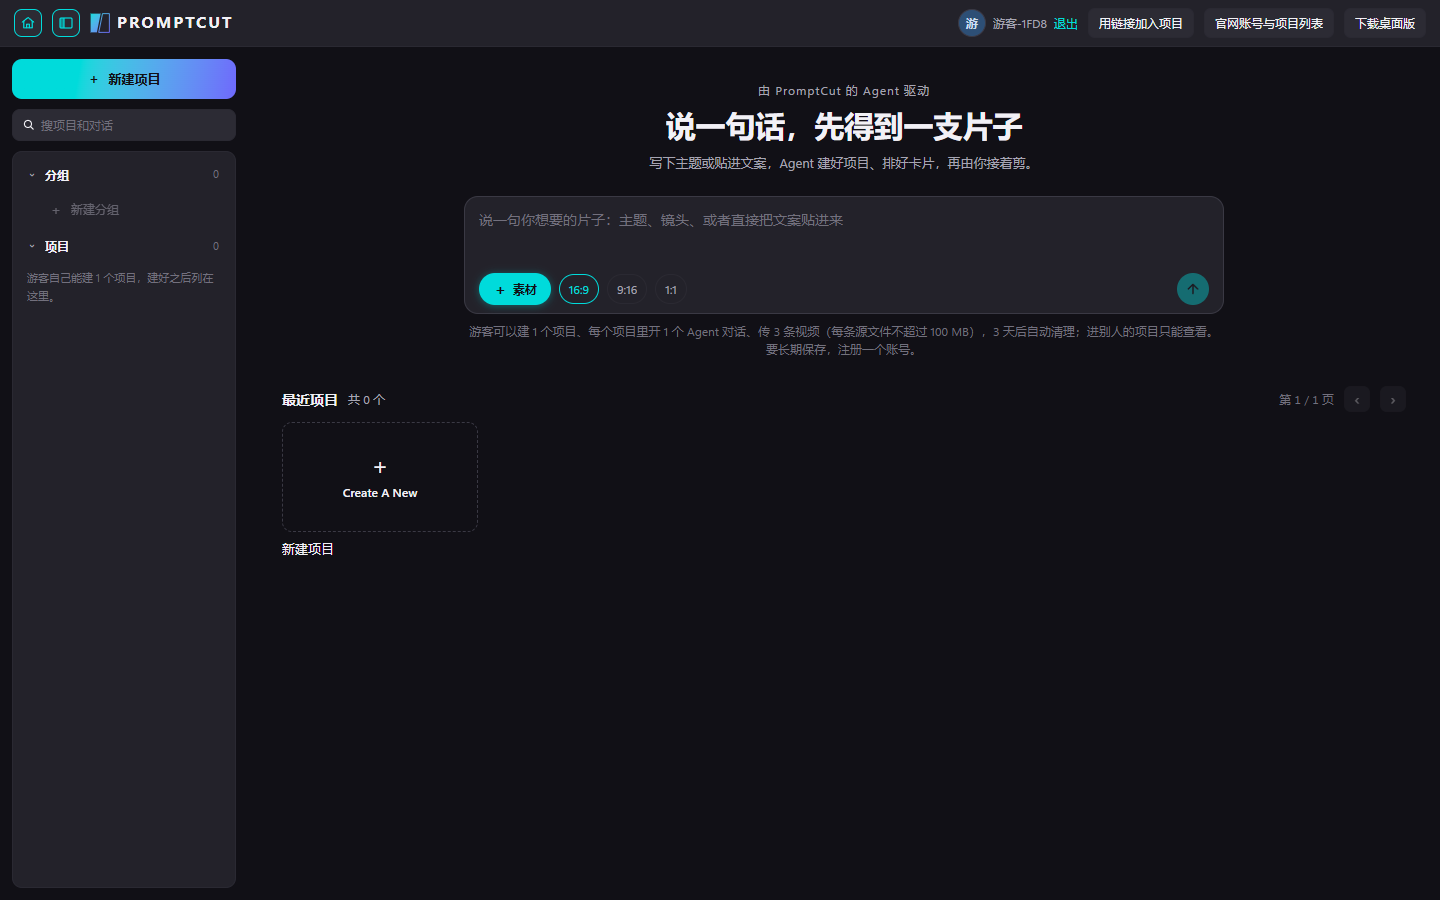
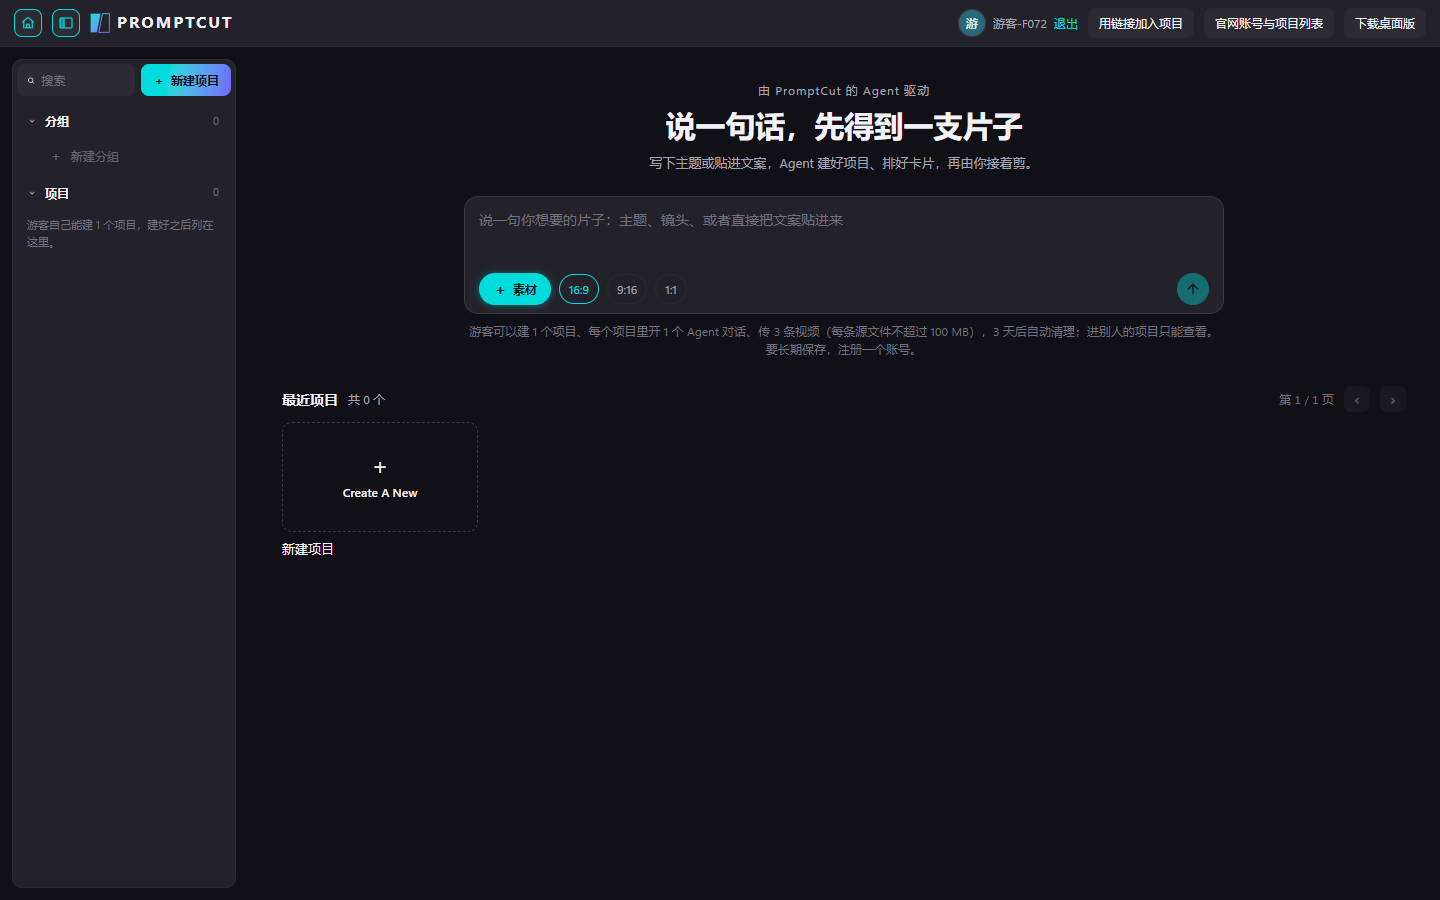
侧栏：搜索与新建并作一行放进面板，点搜索展开盖住新建
用户 2026-10-24 要求：两样都放到面板内部、并排一行；点搜索时搜索框展开，
遮住右边的「新建项目」。

- 面板多一层 `.ps-side-panel`：头一行（`.ps-side-head`）钉在顶上不跟着滚，
  底下才是能滚的列表。
- 头一行里两样都绝对定位：新建键靠右不动，搜索框从它左边起，展开时把 `right`
  走到 0 盖住它（240ms，和侧栏收起同一条缓动）。只动一个 `right`，两样都不
  位移、不重排；拿 flex 挤的话新建键会被压扁、字会折行。
- 收着的 `right` 由 ResizeObserver 量出新建键的宽度给行内样式，键上的字、字号、
  皮肤换了都不用回来改数；CSS 里 112px 只是量到之前的兜底。
- 展开时占位字从「搜索」换成「搜项目和对话」；被盖住的新建键 `aria-hidden` +
  `tabIndex=-1`，不会被 Tab 到。
- 打了字就不收（收回去看不见自己搜的是什么）；自己画了一颗清空 ✕（按下时拦掉
  `mousedown`，免得 <label> 把焦点送进输入框），Esc 也能清空退出。
- 关了动效（prefers-reduced-motion）的直接到位，不滑。

验证：构建成功、影响范围内 60 条测试零失败、`vibe-start-probe.mjs` 再跑一遍
仍然 fails 为空；侧栏拖到最窄 190px 两样仍并排放得下。

Changed region(s): [[0.0, 0.0622, 0.1875, 0.3111], [0.6562, 0.0, 0.6875, 0.0311], [0.0, 0.3111, 0.0312, 0.3422]]

diff --git a/src/start/ProjectSidebar.tsx b/src/start/ProjectSidebar.tsx
@@ -24,7 +24,7 @@
  * 每个分组、每个项目都带 `realm`,右键「移到分组」里另一套的分组置灰并说明。「分组 Agent」语义里没有,这一版不做。
  * 归档的东西收在最下面「已归档」那一段里,右键能取消归档。
  */
-import { useRef, useState } from "react";
+import { useEffect, useRef, useState } from "react";
 import type { JSX } from "react";
 import type { ReactNode } from "react";
 import { RowMenu, type MenuAt, type MenuBlock } from "./RowMenu";
@@ -182,6 +182,24 @@ export function ProjectSidebar(props: {
   const cardOpen = (k: string) => cards[k] !== false;
   const toggleCard = (k: string) => setCards((c) => ({ ...c, [k]: !cardOpen(k) }));
   const [query, setQuery] = useState("");
+  /** 搜索框是不是正被用着(点进去了);打了字的话松开焦点也不收 —— 收回去就看不见自己搜的是什么了 */
+  const [typing, setTyping] = useState(false);
+  /**
+   * 「新建项目」那颗键有多宽。搜索框平时就停在它左边(`right` 给到这个数),展开时 `right` 走到 0 盖住它。
+   * 量出来而不是写死:键上的字、字号、皮肤换了都不用回来改这个数。
+   */
+  const [newW, setNewW] = useState(0);
+  const newBtn = useRef<HTMLButtonElement>(null);
+  const searchBox = useRef<HTMLInputElement>(null);
+  useEffect(() => {
+    const el = newBtn.current;
+    if (!el) return;
+    const measure = () => setNewW(el.offsetWidth);
+    measure();
+    const ro = new ResizeObserver(measure);
+    ro.observe(el);
+    return () => ro.disconnect();
+  }, []);
   const [menu, setMenu] = useState<MenuAt | null>(null);
   const [renaming, setRenaming] = useState<{ kind: TreeKind; id: string; name: string } | null>(null);
   /** 正在拖的那一行;dragover 时读它判同级(dataTransfer 在 dragover 里读不到内容) */
@@ -190,6 +208,8 @@ export function ProjectSidebar(props: {
 
   const q = query.trim().toLowerCase();
   const hit = (text: string) => !q || text.toLowerCase().includes(q);
+  /** 搜索框展开着没有:点进去了,或者里面还有字 */
+  const searchOpen = typing || query !== "";
 
   // 归档的不进树;显示顺序由 ordered 定(置顶的在自己这一段的最前面)
   const groups = ordered(visible(props.groups));
@@ -413,24 +433,52 @@ export function ProjectSidebar(props: {
     >
       {/* 里面这一层钉住原来的宽度:收的时候内容整块滑出去,不会先被挤成一条再消失 */}
       <div className="ps-side-inner" style={{ width: `${props.width}px` }}>
-      <button type="button" className="ps-side-new" data-pc="start-side-new" disabled={!!props.createBlocked} title={props.createBlocked ?? undefined} onClick={props.onCreate}>
-        <span aria-hidden="true">＋</span>新建项目
-      </button>
+      {/* 面板只有一张(issue #5):搜索与新建那一行、下面的列表,都在这张里面 */}
+      <div className="ps-side-panel" data-pc="start-side-panel">
+      {/*
+        头一行:左边搜索、右边「新建项目」。点进搜索框,它向右长出去**盖住**新建那颗键(用户 2026-10-24),
+        动画只动一个 `right`(240ms,和侧栏收起同一条缓动),没有位移抖动;收回去时新建键原样露出来 ——
+        它一直在原地,只是被盖着。
+      */}
+      <div className="ps-side-head" data-searching={searchOpen}>
+        <button ref={newBtn} type="button" className="ps-side-new" data-pc="start-side-new" disabled={!!props.createBlocked}
+          title={props.createBlocked ?? undefined} aria-hidden={searchOpen || undefined} tabIndex={searchOpen ? -1 : undefined}
+          onClick={props.onCreate}>
+          <span aria-hidden="true">＋</span>新建项目
+        </button>
 
-      <label className="ps-search">
-        <svg width="13" height="13" viewBox="0 0 24 24" fill="none" stroke="currentColor" strokeWidth="2" strokeLinecap="round" aria-hidden="true">
-          <circle cx="11" cy="11" r="6.5" />
-          <path d="m16 16 4.5 4.5" />
-        </svg>
-        <input
-          type="search"
-          value={query}
-          placeholder="搜项目和对话"
-          aria-label="搜项目和对话"
-          data-pc="start-side-search"
-          onChange={(e) => setQuery(e.target.value)}
-        />
-      </label>
+        <label className="ps-search" style={newW ? { right: searchOpen ? 0 : newW + 6 } : undefined}>
+          <svg width="13" height="13" viewBox="0 0 24 24" fill="none" stroke="currentColor" strokeWidth="2" strokeLinecap="round" aria-hidden="true">
+            <circle cx="11" cy="11" r="6.5" />
+            <path d="m16 16 4.5 4.5" />
+          </svg>
+          <input
+            ref={searchBox}
+            type="search"
+            value={query}
+            /* 收着的时候只有一小条,长的那句放不下;展开了再写全 */
+            placeholder={searchOpen ? "搜项目和对话" : "搜索"}
+            aria-label="搜项目和对话"
+            data-pc="start-side-search"
+            onFocus={() => setTyping(true)}
+            onBlur={() => setTyping(false)}
+            /* Esc:清空并退出,搜索框收回去,新建键露出来 */
+            onKeyDown={(e) => { if (e.key === "Escape") { setQuery(""); searchBox.current?.blur(); } }}
+            onChange={(e) => setQuery(e.target.value)}
+          />
+          {/*
+            清空那一颗:搜完了点它,搜索框收回去、新建键露出来。只有有字的时候在。
+            `onMouseDown` 要拦掉 —— 它在 <label> 里,不拦的话按下去会把焦点送进输入框,清完又算「正在用」,收不回去。
+          */}
+          {query && (
+            <button type="button" className="ps-search-clear" data-pc="start-side-search-clear" aria-label="清空搜索"
+              onMouseDown={(e) => e.preventDefault()}
+              onClick={() => { setQuery(""); setTyping(false); }}>
+              ✕
+            </button>
+          )}
+        </label>
+      </div>
 
       <div className="ps-side-scroll">
         {SHOW_SCOPE_ROWS && (
@@ -538,6 +586,7 @@ export function ProjectSidebar(props: {
             </div>}
           </div>
         )}
+      </div>
       </div>
 
       </div>

diff --git a/src/start/start.css b/src/start/start.css
@@ -149,19 +149,34 @@
 .ps-grip:hover::after,
 .ps-grip:focus-visible::after { background: var(--accent); }
 .ps-grip:focus-visible { outline: none; }
-.ps-side-new {
+/*
+ * 面板顶上那一行(用户 2026-10-24:搜索和新建都放进面板,并排一行)。两样都**绝对定位**在这一行里:
+ * 新建键靠右不动,搜索框从它左边起,展开时 `right` 走到 0 **盖住**它。
+ * 只动一个 `right`,两样都不位移、不重排 —— 拿 flex 挤的话新建键会被压扁、字会折行。
+ * 那个 `right` 的收着值由 `ProjectSidebar.tsx` 量出新建键的宽度后给行内样式,这里的 112px 只是量到之前的兜底。
+ */
+.ps-side-head {
+  position: relative;
   flex: 0 0 auto;
-  margin: 2px 12px 10px;
+  height: 32px;
+  margin-bottom: 6px;
+}
+.ps-side-new {
+  position: absolute;
+  right: 0;
+  top: 0;
+  height: 100%;
   display: flex;
   align-items: center;
   justify-content: center;
-  gap: 8px;
-  padding: 10px 12px;
+  gap: 6px;
+  padding: 0 12px;
   border: 0;
-  border-radius: 10px;
+  border-radius: 8px;
   font-family: inherit;
-  font-size: 13px;
+  font-size: 12px;
   font-weight: 600;
+  white-space: nowrap;
   cursor: pointer;
   color: var(--on-accent);
   background: var(--ui-accent-grad, linear-gradient(100deg, var(--accent), color-mix(in srgb, var(--accent) 10%, #7b5cff)));
@@ -170,16 +185,46 @@
 .ps-side-new:focus-visible { outline: 2px solid var(--ink); outline-offset: 2px; }
 
 .ps-search {
-  flex: 0 0 auto;
-  margin: 0 12px 8px;
+  position: absolute;
+  left: 0;
+  top: 0;
+  right: 112px;
+  height: 100%;
+  z-index: 2;
   display: flex;
   align-items: center;
   gap: 6px;
-  padding: 6px 9px;
+  padding: 0 9px;
   border: 1px solid var(--hairline);
   border-radius: 8px;
+  /* 底色必须是不透明的:展开时它要把新建键整个盖住,透出来就成了两层字叠在一起 */
   background: var(--fill-subtle);
+  transition: right 240ms cubic-bezier(0.2, 0.8, 0.2, 1);
 }
+/* 关了动效的人:直接到位,不滑 */
+@media (prefers-reduced-motion: reduce) {
+  .ps-search { transition: none; }
+}
+/* 自带的那颗清空键不要:自己画了一颗(`.ps-search-clear`),两颗叠在一起很怪 */
+.ps-search input[type="search"]::-webkit-search-cancel-button { display: none; }
+.ps-search-clear {
+  flex: 0 0 auto;
+  display: grid;
+  place-items: center;
+  width: 17px;
+  height: 17px;
+  padding: 0;
+  border: 0;
+  border-radius: 50%;
+  background: transparent;
+  color: var(--ink-faint);
+  font-family: inherit;
+  font-size: 10px;
+  line-height: 1;
+  cursor: pointer;
+}
+.ps-search-clear:hover { background: var(--fill-hover); color: var(--ink); }
+.ps-search-clear:focus-visible { outline: 2px solid var(--accent); outline-offset: 1px; }
 .ps-search:focus-within { border-color: var(--accent); box-shadow: var(--ui-glow); }
 .ps-search input[type="search"]:focus { box-shadow: none; }
 .ps-search input {
@@ -196,20 +241,27 @@
 
 /*
  * 整栏就是**一张面板**(issue #5,用户原话:「左侧列表栏换成统一的一个面板，不再区分为多个」):
- * 边框、底色、圆角画在能滚的这一层上,分组 / 项目 / 已归档各段在它里面接着往下排。
+ * 边框、底色、圆角画在这一层上;搜索与新建那一行(`.ps-side-head`)钉在它顶上、不跟着滚,
+ * 底下是能滚的列表,分组 / 项目 / 已归档各段接着往下排。
  * 原先是每段各自一张卡(2026-10-23「左侧仿照右侧用模块式」),段与段之间有缝、有各自的边框 —— 那一版已被这条替代。
  * 右边那条拓展栏(`.ps-ext-sec`)不动,它本来就是分开的几段。
  */
-.ps-side-scroll {
+.ps-side-panel {
   flex: 1 1 auto;
   min-height: 0;
-  overflow-y: auto;
-  /* 左右跟「新建项目」「搜项目和对话」对齐(都是 12px),面板不比它们宽也不比它们窄 */
+  /* 左右各留 12px:和原来那颗新建键、搜索框站的位置一样 */
   margin: 2px 12px 12px;
   padding: 4px;
   border: 1px solid var(--hairline);
   border-radius: 10px;
   background: var(--bg-panel);
+  display: flex;
+  flex-direction: column;
+}
+.ps-side-scroll {
+  flex: 1 1 auto;
+  min-height: 0;
+  overflow-y: auto;
   display: flex;
   flex-direction: column;
 }

diff --git a/docs/reports/PROBE-vibe-ui-issues.md b/docs/reports/PROBE-vibe-ui-issues.md
@@ -19,7 +19,7 @@
 
 | 探针 | 命令 | 结果 |
 |---|---|---|
-| 在线氛围式真跑一遍 | `PROMPTCUT_ACCOUNT_PROVIDER_ROOT=… PROMPTCUT_PASSWORD_ORDER_MODULE=… PROMPTCUT_NO_PORT_FILE=1 node scripts/probes/vibe-start-probe.mjs --dist dist-online --site-root <VisuHive>/site --out <目录>` | **通过**：最后一行 `{"ok":true, … ,"fails":[]}`，13 步全过，`pageErrors` / `serverErrors` 三个角色都是空 |
+| 在线氛围式真跑一遍 | `PROMPTCUT_ACCOUNT_PROVIDER_ROOT=… PROMPTCUT_PASSWORD_ORDER_MODULE=… PROMPTCUT_NO_PORT_FILE=1 node scripts/probes/vibe-start-probe.mjs --dist dist-online --site-root <VisuHive>/site --out <目录>` | **通过**：最后一行 `{"ok":true, … ,"fails":[]}`，13 步全过，`pageErrors` / `serverErrors` 三个角色都是空。跑了两遍：四个 issue 改完之后一遍，搜索与新建并作一行之后又一遍，两遍都过 |
 | 桌面氛围式 | `node scripts/probes/vibe-desktop-probe.mjs --cdp <端口>` | **没跑**：它要先起 Tauri 桌面壳、再连 WebView2 的调试端口，本次改动在壳外的页面里，已改用下面「三、手工验证」在 5203 上逐条看过 |
 
 `vibe-start-probe.mjs` 里原来有一句无条件点「右侧拓展栏」开关；#6 之后拓展栏进会话就自己开了，再点一下反而关上，
@@ -29,6 +29,7 @@
 
 - `PROBE-vibe-ui-issues-shots/10-guest-home.png` —— 游客开始页。就是 issue #10 那一屏：「空白画布」和「这里还没有项目。点第一格的「Create A New」建一个。」都不在了；左侧是**一张**面板（#5）。
 - `PROBE-vibe-ui-issues-shots/11-guest-chat.png` —— 游客进会话之后。探针**没有点**拓展栏开关，右侧「画面 / 修改前 / 修改后」自己就展开了（#6）。
+- `PROBE-vibe-ui-issues-shots/search-open.jpg` —— 搜索框点开之后盖住「新建项目」的样子（手工截，桌面氛围式）。
 
 ## 三、手工验证（桌面氛围式，`npx vite --port 5203`，`/?ui=vibe`）
 
@@ -38,6 +39,7 @@
 | #10 冗余内容 | 看「最近项目」那一排 | 第一格底下只剩「新建项目」，没有「空白画布」；一个项目都没有时不再多一句「这里还没有项目…」。列表还在读、读不到时那句话照样出（`props.empty`） |
 | #6 进会话后右侧拓展栏自动展开 | 新建项目 → 进聊天页 | 没点开关，右侧拓展栏已经开着 |
 | #11 有项目时左侧栏自动展开 | 手动收起侧栏 → 刷新 | 侧栏自己滑开，`localStorage` 的 `pc.start.sideCollapsed` 写回 `0`；再手动收起，当次不再被弹开 |
+| 搜索与新建并作一行、点搜索展开遮住新建（2026-10-24 用户追加） | 点搜索框 → 打字 → 移开焦点 → 点清空 | 搜索框向右滑开盖住「新建项目」（240ms），占位字从「搜索」换成「搜项目和对话」；有字时移开焦点仍不收；点 ✕ 或按 Esc 清空后滑回、新建键原样露出。侧栏拖到最窄 190px 时两样仍并排放得下 |
 
 ## 四、没跑的和为什么
 
